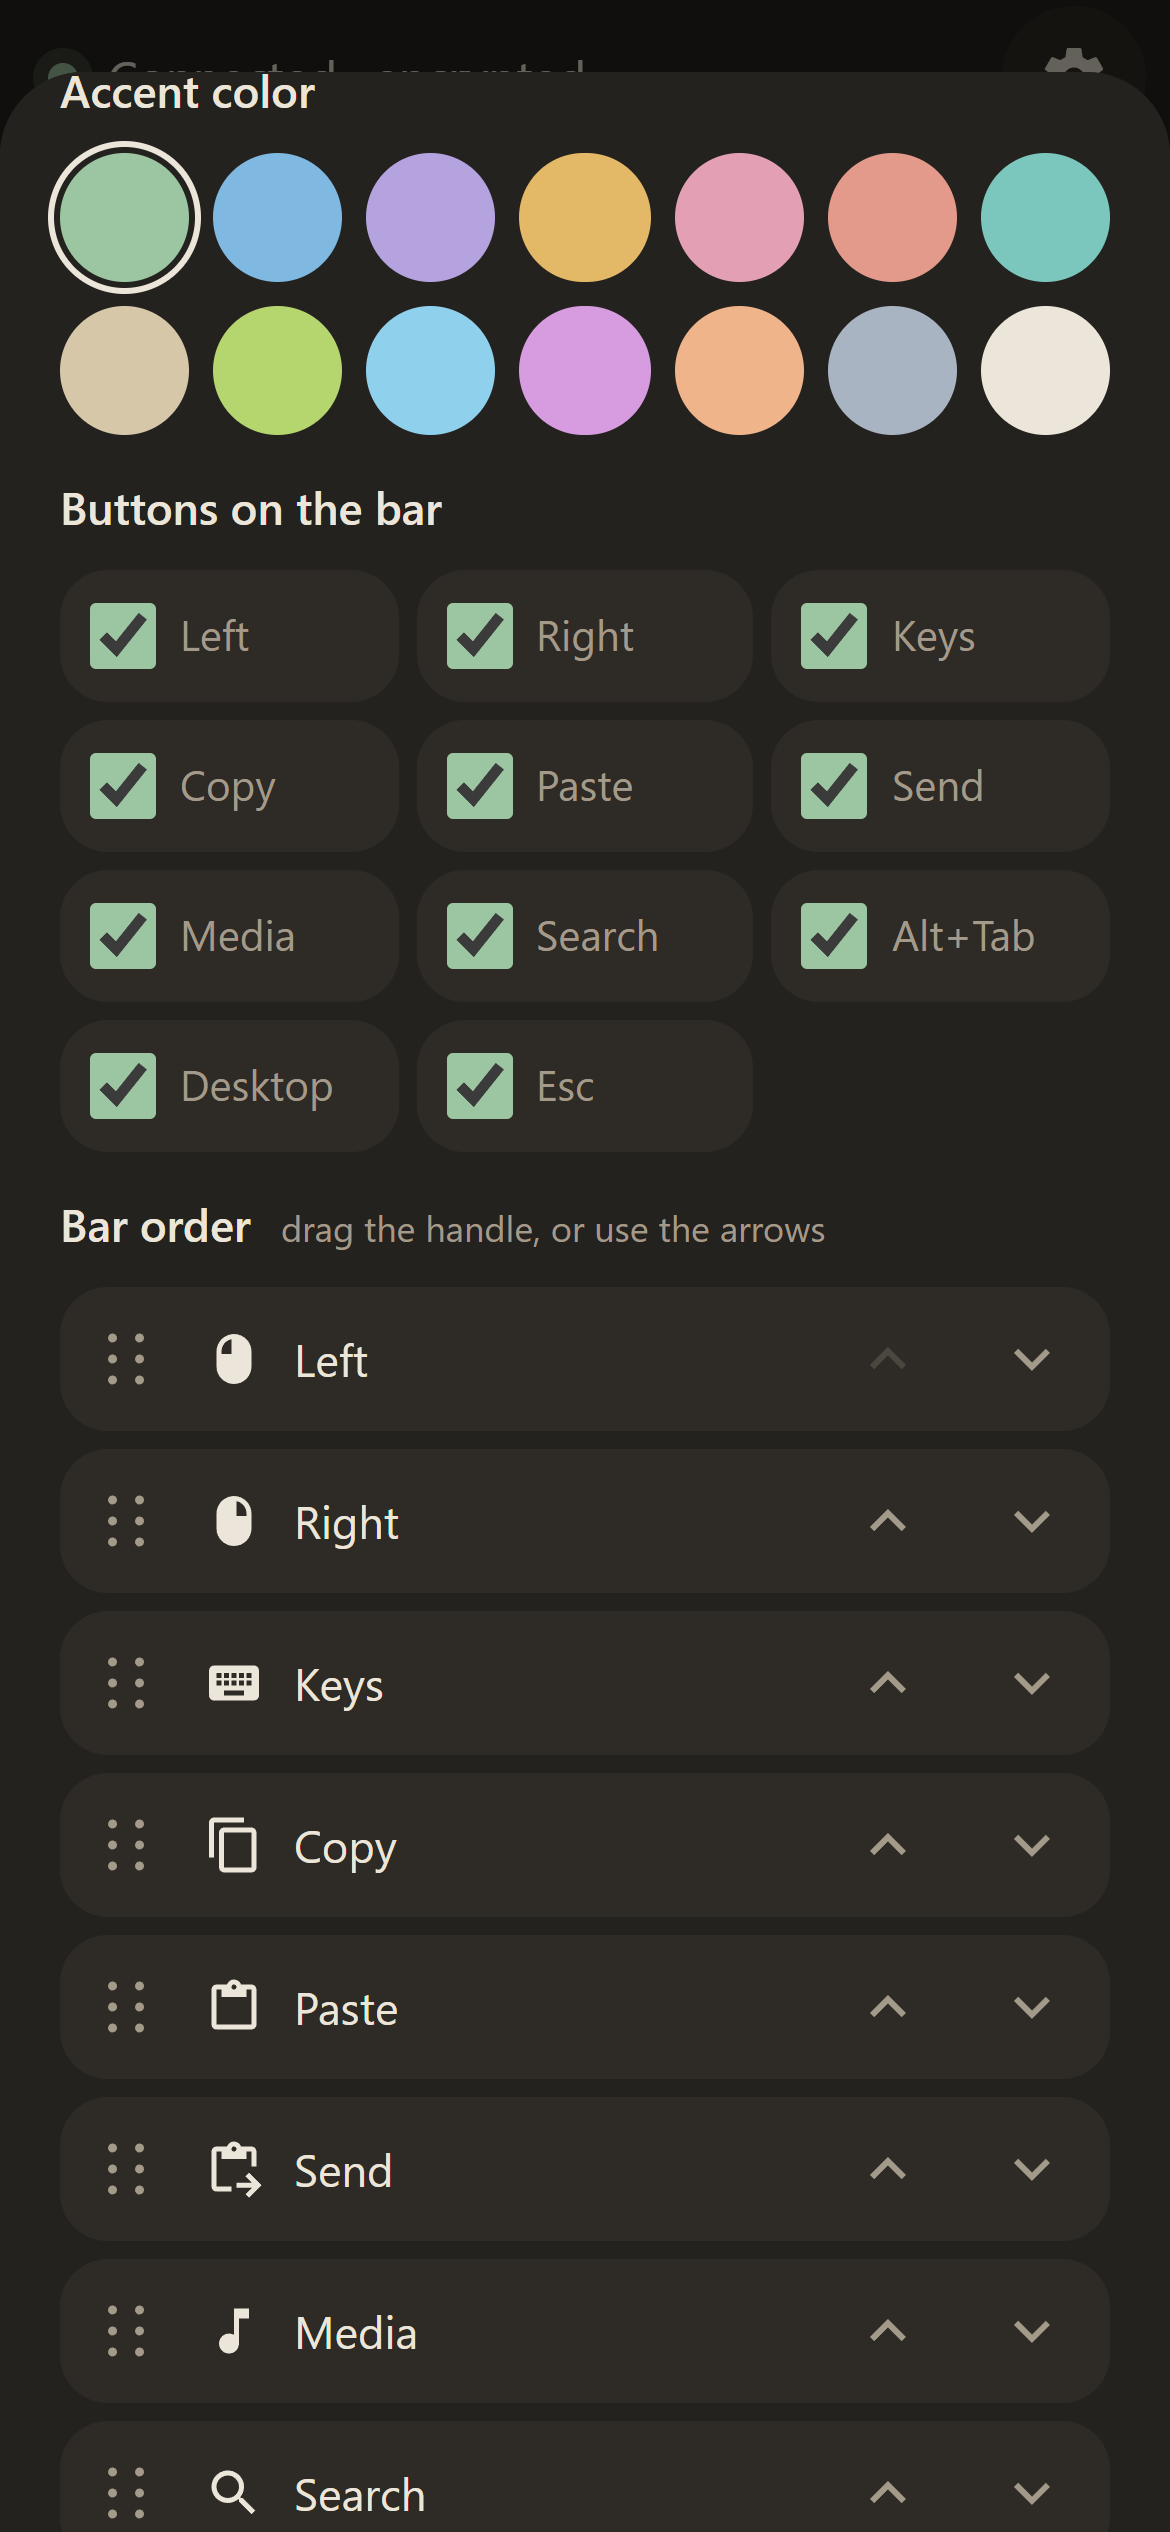
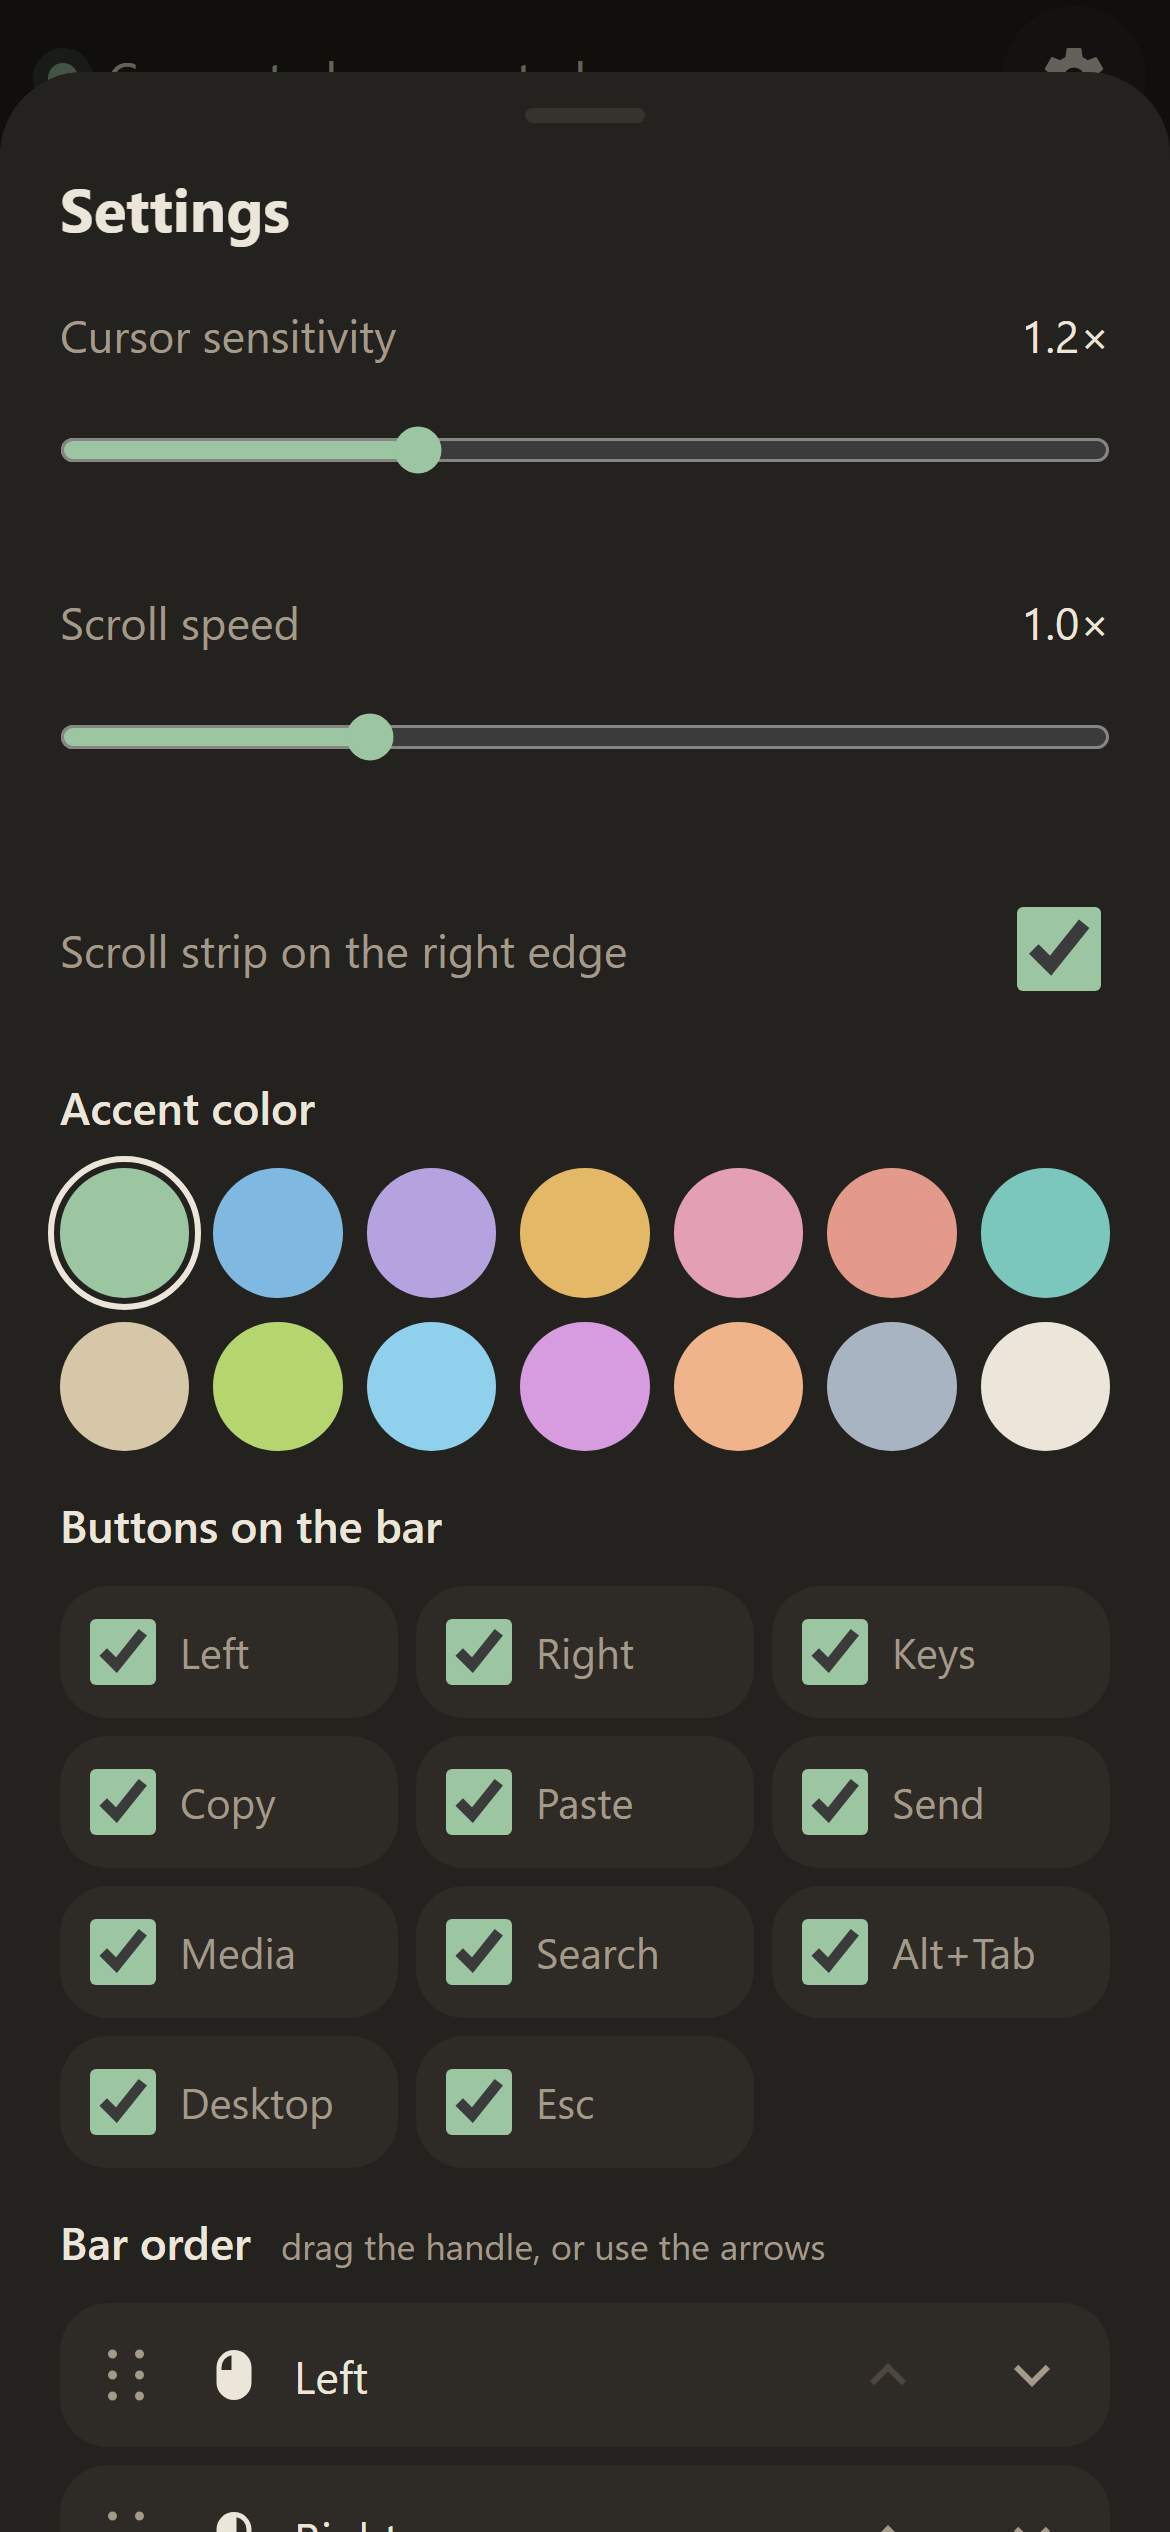
README: Why Mousette and Features sections, settings screenshot with the scroll strip option

diff --git a/README.md b/README.md
@@ -10,6 +10,27 @@ Turn your phone into a trackpad and keyboard for your PC over your home network.
   <img src="docs/screenshot-settings.png" width="230" alt="Mousette settings: 14 accent colors, bar buttons and bar order">
 </p>
 
+## Why Mousette?
+
+A program that controls your mouse and keyboard has to be one you can trust. Many remote mouse apps are closed source, keep a background service running after you close them, and send data you can't check. Mousette works differently:
+
+- **Open source (MIT):** every line of the PC program and the phone page is in this repo.
+- **Nothing left running:** **Quit Mousette** stops it completely. It doesn't start with Windows and installs no service.
+- **No tracking:** no accounts, no ads, no analytics. The only internet request is the update check on GitHub at start, which you can turn off with `--no-update`.
+- **Stays on your home network:** the phone talks straight to your PC. Nothing goes through a cloud server, and the phone page loads nothing from the internet.
+- **Encrypted:** scan the QR code and everything between the phone and the PC is encrypted: the PIN, every tap, everything you type or paste. Others on your Wi-Fi can't read it, and recorded traffic can't be replayed.
+- **PIN protected:** a new random PIN on every start, and devices that guess wrong get locked out (see [Security](#security)).
+- **No phone app:** it runs in the phone's browser, so there's nothing to install from an app store.
+
+## Features
+
+- **Quick to connect:** scan the QR code in the Mousette window with the phone camera.
+- **Encrypted connection:** the QR code gives the phone a secret key, and everything sent between the phone and the PC is encrypted with keys made from it (XSalsa20-Poly1305 from the NaCl library). The key reaches the phone through the camera, never over the network, and the phone stays paired after the PC restarts. Typing the PIN by hand connects without encryption, and the page tells you so. Details: [PROTOCOL.md](PROTOCOL.md#encryption).
+- **Trackpad:** tap to click, two-finger tap to right-click, two-finger scroll, hold and drag to select or move windows. Or scroll with one finger on the scroll strip next to the trackpad (turn it on or off in settings).
+- **Keyboard:** type in any language, including é ü ñ and emoji, or paste text from your phone onto the PC.
+- **Shortcuts and media:** Search, Alt+Tab, Task Manager, volume, play/pause, next track, shut down.
+- **Your layout:** 14 accent colors, and you pick which buttons the bottom bar shows and in what order.
+
 ## What works where
 
 | | Status |
